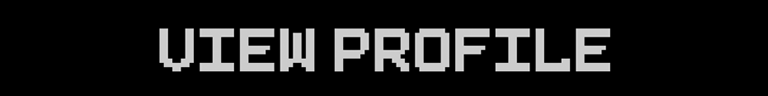
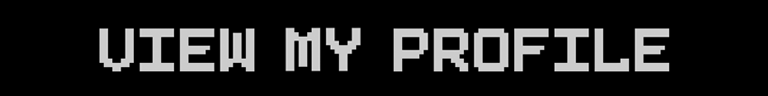
formatted startup panel

Changed region(s): [[0.125, 0.2812, 0.875, 0.75]]

diff --git a/src/ooga/view/startupView/GameStartupPanel.java b/src/ooga/view/startupView/GameStartupPanel.java
@@ -24,6 +24,7 @@ import javafx.scene.paint.Color;
 import javafx.scene.paint.Paint;
 import javafx.scene.text.Font;
 import javafx.scene.text.FontPosture;
+import javafx.scene.text.FontWeight;
 import javafx.scene.text.Text;
 import javafx.stage.FileChooser;
 import javafx.stage.Stage;
@@ -43,8 +44,9 @@ public class GameStartupPanel {
   public static final String RUN_FAVORITE_FILE_METHOD = "uploadFavoriteFile";
   public static final String RUN_FIREBASE_FILE_METHOD = "uploadFirebaseFile";
   private static final int SCREEN_WIDTH = 400;
-  private static final int SCREEN_HEIGHT = 500;
+  private static final int SCREEN_HEIGHT = 530;
   public static final int SELECTOR_WIDTH = 150;
+  public static final int SPACING = 10;
   public static final Paint BACKGROUND = Color.BLACK;
   public static final String STARTUP_PACKAGE = "ooga.view.startupView.";
   public static final String DEFAULT_STYLESHEET = String.format("/%sGameStartupPanel.css",
@@ -101,7 +103,8 @@ public class GameStartupPanel {
   }
 
   private Scene createStartupScene() {
-    GridPane root = new GridPane();
+    VBox root = new VBox();
+    root.setSpacing(SPACING);
     root.getStyleClass().add("grid-pane");
     makeBackground(root);
     addPacMan307Img(root);
@@ -112,38 +115,46 @@ public class GameStartupPanel {
     return myScene;
   }
 
-  private void addPacMan307Img(GridPane root) {
+  private void addPacMan307Img(VBox root) {
     ImageView pm307 = new ImageView(
         new Image(new File("data/images/pac_man_307.png").toURI().toString()));
     setImgWidth(pm307, SCREEN_WIDTH);
-    root.add(pm307, 1, 1);
+    root.getChildren().add(pm307);
   }
 
-  private void addStartupOptions(GridPane root) {
-    VBox selectCol1L = new VBox();
-    VBox selectCol1R = new VBox();
-    VBox selectCol2L = new VBox();
-    VBox selectCol2R = new VBox();
+  private void addStartupOptions(VBox root) {
+    VBox profileCluster = new VBox();
+    VBox gameFileCluster = new VBox();
+    VBox languageCluster = new VBox();
+    VBox viewModeCluster = new VBox();
     HBox selectCluster1 = new HBox();
     HBox selectCluster2 = new HBox();
-    root.add(makeProfileInfo(), 1, 2);
-    viewProfile = makeButton("viewProfile", selectCol1L, e -> makeProfileView());
-    selectLanguage = makeSelectorBox(selectCol2L, "Language", LANGUAGE_KEYS);
-    addToCluster(root, selectCol1L, selectCol1R, selectCluster1, 3);
-    selectViewMode = makeSelectorBox(selectCol2R, "ViewingMode", VIEW_MODE_KEYS);
-    selectFile = makeSelectorBox(selectCol1R, "GameFile", LOAD_FILE_KEYS);
+    root.getChildren().add(makeProfileInfo());
+    viewProfile = makeButton("viewProfile", profileCluster, e -> makeProfileView());
+    selectLanguage = makeSelectorBox(languageCluster, "Language", LANGUAGE_KEYS);
+    addToCluster(root, profileCluster, gameFileCluster, selectCluster1, 3);
+    selectViewMode = makeSelectorBox(viewModeCluster, "ViewingMode", VIEW_MODE_KEYS);
+    selectFile = makeSelectorBox(gameFileCluster, "GameFile", LOAD_FILE_KEYS);
     selectFile.setOnAction(e -> selectFileAction());
-    displayFileName = makeText(Color.LIGHTGRAY, NO_FILE_TEXT, selectCol1R);
-    addToCluster(root, selectCol2L, selectCol2R, selectCluster2, 4);
+    displayFileName = makeText(Color.LIGHTGRAY, NO_FILE_TEXT, FontWeight.NORMAL,
+            FontPosture.ITALIC, 11, gameFileCluster);
+    addToCluster(root, languageCluster, viewModeCluster, selectCluster2, 4);
   }
 
   private VBox makeProfileInfo() {
     VBox profileInfo = new VBox();
+    profileInfo.setSpacing(3);
     profileInfo.setAlignment(Pos.TOP_CENTER);
+    HBox pfpBorder = new HBox();
     ImageView profilePic = new ImageView(new Image(new File(myUser.imagePath()).toURI().toString()));
     setImgWidth(profilePic, SCREEN_WIDTH / 4);
-    profileInfo.getChildren().add(profilePic);
-    Text username = makeText(Color.LIGHTGRAY, myUser.username(), profileInfo);
+    pfpBorder.getChildren().add(profilePic);
+    pfpBorder.setMaxWidth(SCREEN_WIDTH / 4);
+    pfpBorder.setBorder(new Border(new BorderStroke(Color.LIGHTGRAY, BorderStrokeStyle.SOLID,
+            new CornerRadii(5), new BorderWidths(6))));
+    profileInfo.getChildren().add(pfpBorder);
+    Text username = makeText(Color.LIGHTGRAY, myUser.username(), FontWeight.BOLD,
+            FontPosture.REGULAR, 16, profileInfo);
     return profileInfo;
   }
 
@@ -183,9 +194,10 @@ public class GameStartupPanel {
     displayFileName.setText(splitFileString[splitFileString.length-1]);
   }
 
-  private Text makeText(Paint color, String message, VBox vBox) {
+  private Text makeText(Paint color, String message, FontWeight fontWeight,
+                        FontPosture fontPosture, int fontSize, VBox vBox) {
     Text text = new Text();
-    text.setFont(Font.font("Verdana", FontPosture.ITALIC, 11));
+    text.setFont(Font.font("Verdana", fontWeight, fontPosture, fontSize));
     text.setFill(color);
     text.setText(message);
     vBox.getChildren().add(text);
@@ -206,19 +218,24 @@ public class GameStartupPanel {
     return comboBox;
   }
 
-  private void addToCluster(GridPane root, VBox vBoxChild1, VBox vBoxChild2, HBox hBoxParent,
+  private void addToCluster(VBox root, VBox vBoxChild1, VBox vBoxChild2, HBox hBoxParent,
       int row) {
+    hBoxParent.setAlignment(Pos.TOP_CENTER);
     hBoxParent.getChildren().addAll(vBoxChild1, vBoxChild2);
-    root.add(hBoxParent, 1, row);
+    root.getChildren().add(hBoxParent);
   }
 
   private Button makeButton(String id, VBox vbox, EventHandler<ActionEvent> handler) {
+    ImageView buttonLabel = new ImageView(new Image(
+            new File("data/images/" + id + ".png").toURI().toString()));
+    setImgWidth(buttonLabel, SCREEN_WIDTH / 2);
     Button button = new Button();
     button.setMinWidth(SELECTOR_WIDTH);
     button.setId(id);
     button.setText(myUser.username());
     button.setOnAction(handler);
-    vbox.getChildren().add(button);
+    vbox.setAlignment(Pos.TOP_CENTER);
+    vbox.getChildren().addAll(buttonLabel, button);
     return button;
   }
 
@@ -236,7 +253,7 @@ public class GameStartupPanel {
     return myFileChooser.showOpenDialog(startupStage);
   }
 
-  private void addStartButton(GridPane root) {
+  private void addStartButton(VBox root) {
     ImageView startButton = new ImageView(
         new Image(new File("data/images/playButton.png").toURI().toString()));
     setImgWidth(startButton, SCREEN_WIDTH / 4);
@@ -245,7 +262,7 @@ public class GameStartupPanel {
     HBox playBox = new HBox();
     playBox.getChildren().add(startButton);
     playBox.setAlignment(Pos.CENTER);
-    root.add(playBox, 1, 5);
+    root.getChildren().add(playBox);
   }
 
   private void startButtonAction() {
@@ -310,7 +327,7 @@ public class GameStartupPanel {
     return newComboBox;
   }
 
-  private void makeBackground(GridPane root) {
+  private void makeBackground(VBox root) {
     BackgroundFill background_fill = new BackgroundFill(BACKGROUND,
         CornerRadii.EMPTY, Insets.EMPTY);
     Background background = new Background(background_fill);
